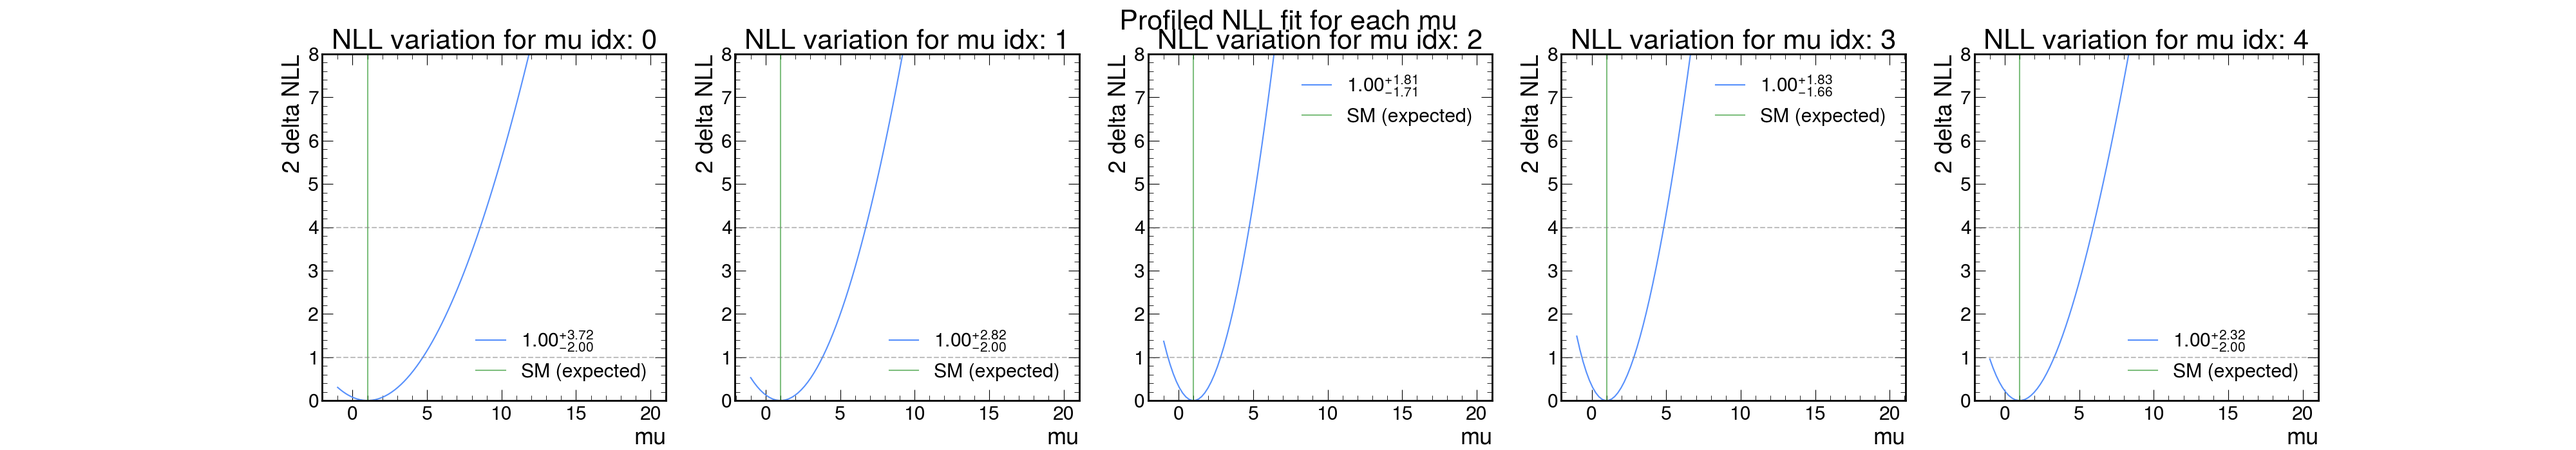
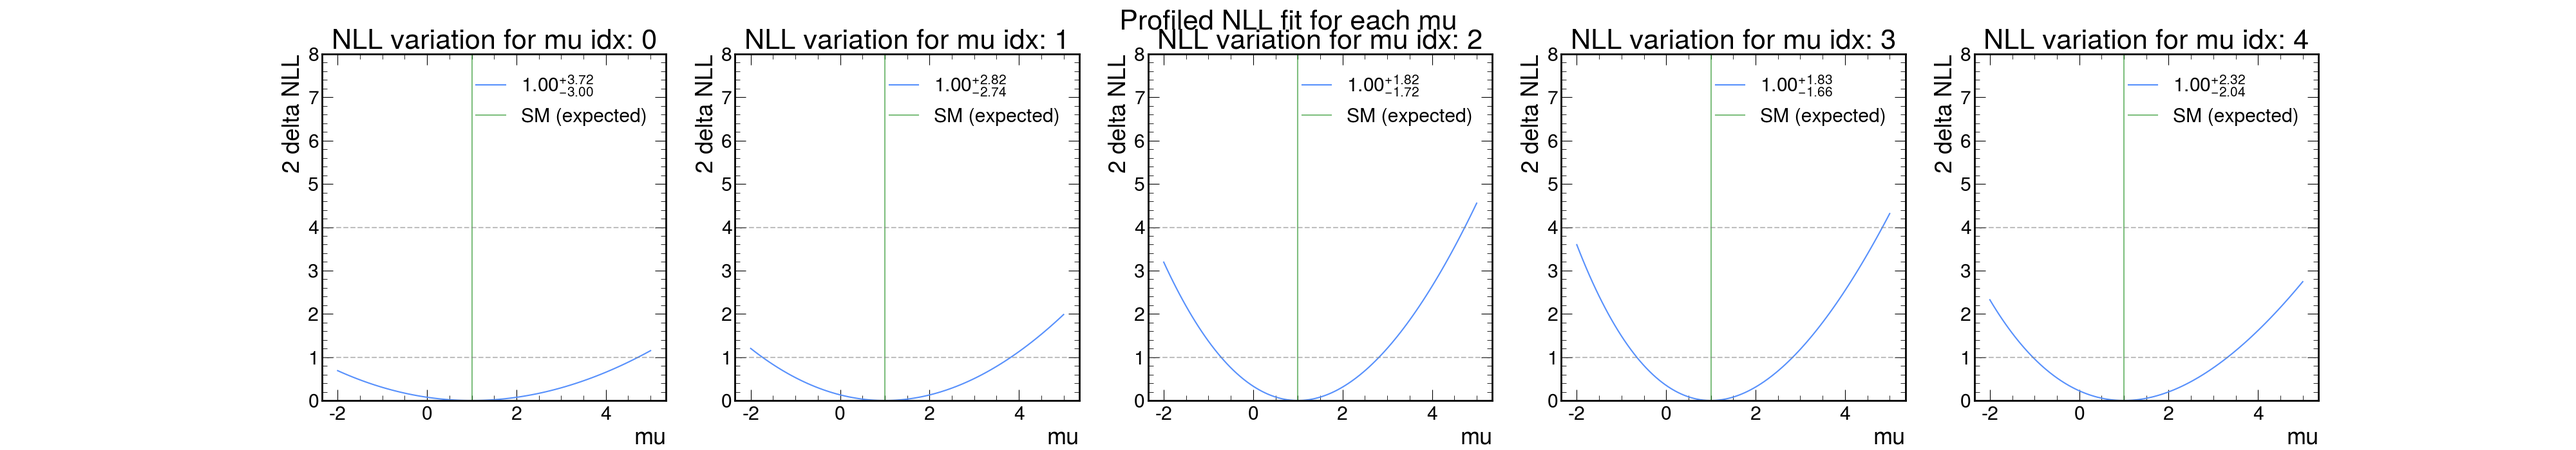
Copied over wadoud's profiled nll for comparisn and gives same results. Therefore input data is off.

diff --git a/simple_stat_analysis.py b/simple_stat_analysis.py
@@ -164,56 +164,57 @@ for cat in cats_unique:
 #print(hists)
 # Calculate NLL as a function of ttH signal strength (assuming fixed bkg and ggH yields)
 NLL_vals = []
-mu_vals = np.linspace(-1,20,100)
+mu_vals = np.linspace(-2,5,100)
 new_samples = pd.read_parquet(f"{sample_path}/ttH_processed_selected.parquet")
-#%%
-'''
-Frozen scan over mu
-'''
 conf_matrix_raw, conf_matrix, conf_matrix_recon = get_conf_mat(new_samples) #conf_matrix[2] is the one normalised by recon
 init_mu = [1 for i in range(len(conf_matrix))]
-for cat in cats_unique:
-    cat_vals = []
-    for mu in mu_vals:
-        init_mu[cat]=mu
-        cat_vals.append(calc_NLL(hists, init_mu, conf_matrix))
-    #print(cat_vals)
-    init_mu[cat]=1
-    #print("________________________________")
-    #print(f"NLL vals for cat - {cat}: ",cat_vals)
-    NLL_vals.append(cat_vals)
+#%%
+# '''
+# Frozen scan over mu
+# '''
 
-'''
-Plotting NLL curves
-'''
-fig, axes = plt.subplots(2, 3,figsize=(15, 10))
-all_mu = []
-# Plot NLL curve
-for idx in range(len(cats_unique)):
-    cat = cats_unique[idx]
-    #Best fit vals for category cat.
-    vals = find_crossings((mu_vals,TwoDeltaNLL(NLL_vals[cat])),1.)
-    all_mu.append(vals[0])
-    label = add_val_label(vals)
-    ax = axes[idx//3,idx%3]
-    print(" --> Plotting 2NLL curve")
-    ax.plot(mu_vals, TwoDeltaNLL(NLL_vals[cat]), label=label)
-    ax.axvline(1., label="SM (expected)", color='black', alpha=0.5)
-    ax.axhline(1, color='grey', alpha=0.5, ls='--')
-    ax.axhline(4, color='grey', alpha=0.5, ls='--')
-    ax.set_ylim(0,8)
-    ax.legend(loc='best')
-    ax.set_xlabel("$\\mu_{ttH}$")
-    ax.set_ylabel("q = 2$\\Delta$NLL")
-    ax.set_title(f"Best fit for cat: {cats[cat]}", fontsize=15)
-    #plt.tight_layout()
-    #fig.savefig(f"{analysis_path}/2nll_vs_mu.pdf", bbox_inches="tight")
-    #fig.savefig(f"{analysis_path}/2nll_vs_mu_{cats[cat]}.png", bbox_inches="tight")
-    #ax.cla()
-fig.delaxes(axes[1,2])
-fig.suptitle("Frozen NLL scan for each mu using ind hist")
-fig.savefig(f"{analysis_path}/2nll_vs_mu_subplot_fro.png", bbox_inches="tight")
-#fig.show()
+# for cat in cats_unique:
+#     cat_vals = []
+#     for mu in mu_vals:
+#         init_mu[cat]=mu
+#         cat_vals.append(calc_NLL(hists, init_mu, conf_matrix))
+#     #print(cat_vals)
+#     init_mu[cat]=1
+#     #print("________________________________")
+#     #print(f"NLL vals for cat - {cat}: ",cat_vals)
+#     NLL_vals.append(cat_vals)
+
+# '''
+# Plotting NLL curves
+# '''
+# fig, axes = plt.subplots(2, 3,figsize=(15, 10))
+# all_mu = []
+# # Plot NLL curve
+# for idx in range(len(cats_unique)):
+#     cat = cats_unique[idx]
+#     #Best fit vals for category cat.
+#     vals = find_crossings((mu_vals,TwoDeltaNLL(NLL_vals[cat])),1.)
+#     all_mu.append(vals[0])
+#     label = add_val_label(vals)
+#     ax = axes[idx//3,idx%3]
+#     print(" --> Plotting 2NLL curve")
+#     ax.plot(mu_vals, TwoDeltaNLL(NLL_vals[cat]), label=label)
+#     ax.axvline(1., label="SM (expected)", color='black', alpha=0.5)
+#     ax.axhline(1, color='grey', alpha=0.5, ls='--')
+#     ax.axhline(4, color='grey', alpha=0.5, ls='--')
+#     ax.set_ylim(0,8)
+#     ax.legend(loc='best')
+#     ax.set_xlabel("$\\mu_{ttH}$")
+#     ax.set_ylabel("q = 2$\\Delta$NLL")
+#     ax.set_title(f"Best fit for cat: {cats[cat]}", fontsize=15)
+#     #plt.tight_layout()
+#     #fig.savefig(f"{analysis_path}/2nll_vs_mu.pdf", bbox_inches="tight")
+#     #fig.savefig(f"{analysis_path}/2nll_vs_mu_{cats[cat]}.png", bbox_inches="tight")
+#     #ax.cla()
+# fig.delaxes(axes[1,2])
+# fig.suptitle("Frozen NLL scan for each mu using ind hist")
+# fig.savefig(f"{analysis_path}/2nll_vs_mu_subplot_fro.png", bbox_inches="tight")
+# #fig.show()
 #%%
 '''
 Scanning using combined hist
@@ -263,6 +264,128 @@ for i in range(len(init_mu)):
 fig.suptitle("Frozen NLL scan for each mu using comb hist")
 all_mu = init_mu
 print("The optimised values of mu are:", init_mu)
+#%%
+#'''
+# Wadoud profiled nll
+# '''
+# plot_entire_chain = True
+# def calc_NLL(combined_histogram, mus, signal='ttH'):
+#     """
+#     Calculate the NLL using the combined 25-bin histogram with variable \mu parameters.
+
+#     Parameters:
+#         combined_histogram (dict): Combined histogram for each process across 25 bins.
+#         mus (list or array): Signal strength modifiers, one for each truth category.
+#         signal (str): The signal process (default 'ttH').
+
+#     Returns:
+#         float: Total NLL.
+#     """
+#     NLL_total = 0.0
+#     num_bins = len(next(iter(combined_histogram.values())))  # Total bins (should be 25)
+
+#     # Loop over each bin in the combined histogram
+#     for bin_idx in range(num_bins):
+#         expected_total = 0.0
+#         observed_count = 0.0
+#         #breakpoint()
+#         for proc, yields in combined_histogram.items():
+#             if signal in proc:
+#                 # Extract the truth category index from the signal label, e.g., "ttH_0"
+#                 truth_cat_idx = int(proc.split('_')[1])
+#                 mu = mus[truth_cat_idx]  # Apply the appropriate \mu for this truth category
+#                 expected_total += mu * yields[bin_idx]
+#             else:
+#                 expected_total += yields[bin_idx]
+
+#             observed_count += yields[bin_idx]  # Observed count from all processes in this bin
+
+#         # Avoid division by zero in log calculation
+#         expected_total = max(expected_total, 1e-10)
+        
+#         # Calculate NLL contribution for this bin
+#         NLL_total += observed_count * np.log(expected_total) - expected_total
+
+#     return -NLL_total
+
+# # Define the objective function for NLL
+# def objective_function(mus, fixed_mu_index, fixed_mu_value):
+#     """
+#     Objective function to compute NLL for given mu values, fixing one mu.
+    
+#     Parameters:
+#         mus (array-like): Array of 4 mu values to optimize.
+#         fixed_mu_index (int): Index of the mu being scanned (fixed during optimization).
+#         fixed_mu_value (float): The fixed value for the scanned mu.
+    
+#     Returns:
+#         float: NLL value for the given set of mu values.
+#     """
+#     full_mus = np.insert(mus, fixed_mu_index, fixed_mu_value)  # Reconstruct full mu array
+#     return calc_NLL(comb_hist, full_mus, signal='ttH')
+
+# # Configuration
+# mu_values = np.linspace(-2, 5, 100)  # Range for scanning a single mu
+# mus_initial = [1.0, 1.0, 1.0, 1.0, 1.0]
+# bounds = [(0, 3) for _ in range(4)]  # Bounds for the other mu parameters
+
+# frozen_mus = mus_initial.copy()
+
+# # Prepare the plots
+# if plot_entire_chain:
+#     fig, axes = plt.subplots(nrows=5, figsize=(8, 30), dpi=300, sharex=True)
+
+# # Perform both frozen scan and profile scan
+# for i in range(5):
+#     frozen_NLL_vals = []
+#     profile_NLL_vals = []
+    
+#     for mu in mu_values:
+#         # Frozen scan: keep other mu values constant
+        
+#         frozen_mus[i] = mu
+#         frozen_NLL_vals.append(calc_NLL(comb_hist, frozen_mus, signal='ttH'))
+        
+#         # Profile scan: optimize the other mu values
+#         initial_guess = [mus_initial[j] for j in range(5) if j != i]
+#         obj_func = lambda reduced_mus: objective_function(reduced_mus, fixed_mu_index=i, fixed_mu_value=mu)
+#         result = minimize(obj_func, initial_guess, bounds=bounds, method='L-BFGS-B')
+        
+#         profile_NLL_vals.append(result.fun)
+    
+#     # Convert to 2ΔNLL
+#     frozen_NLL_vals = TwoDeltaNLL(frozen_NLL_vals)
+#     profile_NLL_vals = TwoDeltaNLL(profile_NLL_vals)
+    
+#     # Find crossings
+#     frozen_vals = find_crossings((mu_values, frozen_NLL_vals), 1.)
+#     profile_vals = find_crossings((mu_values, profile_NLL_vals), 1.)
+#     frozen_label = add_val_label(frozen_vals)
+#     profile_label = add_val_label(profile_vals)
+    
+#     # Keep optimal Frozen
+    
+#     frozen_mus[i] = frozen_vals[0]
+    
+#     if plot_entire_chain:
+#     # Plotting each NLL curve on a separate subplot
+#         ax = axes[i]
+#         ax.plot(mu_values, frozen_NLL_vals, label=f"Frozen Scan: {frozen_label}", color='blue')
+#         ax.plot(mu_values, profile_NLL_vals, label=f"Profile Scan: {profile_label}", color='red', linestyle='--')
+#         ax.axvline(1., label="SM (expected)", color='green', alpha=0.5)
+#         ax.axhline(1, color='grey', alpha=0.5, ls='--')
+#         ax.axhline(4, color='grey', alpha=0.5, ls='--')
+#         ax.set_ylim(0, 8)
+#         ax.legend(loc='best')
+#         ax.set_ylabel("q = 2$\\Delta$NLL")
+#         ax.set_title(f"Optimising $\\mu_{i}$")
+
+# if plot_entire_chain:
+#     # Show the plot
+#     plt.xlabel("$\\mu$ Value")
+#     plt.tight_layout()
+#     plt.show()
+
 #%%
 '''
 Profiled fit for NLL 
